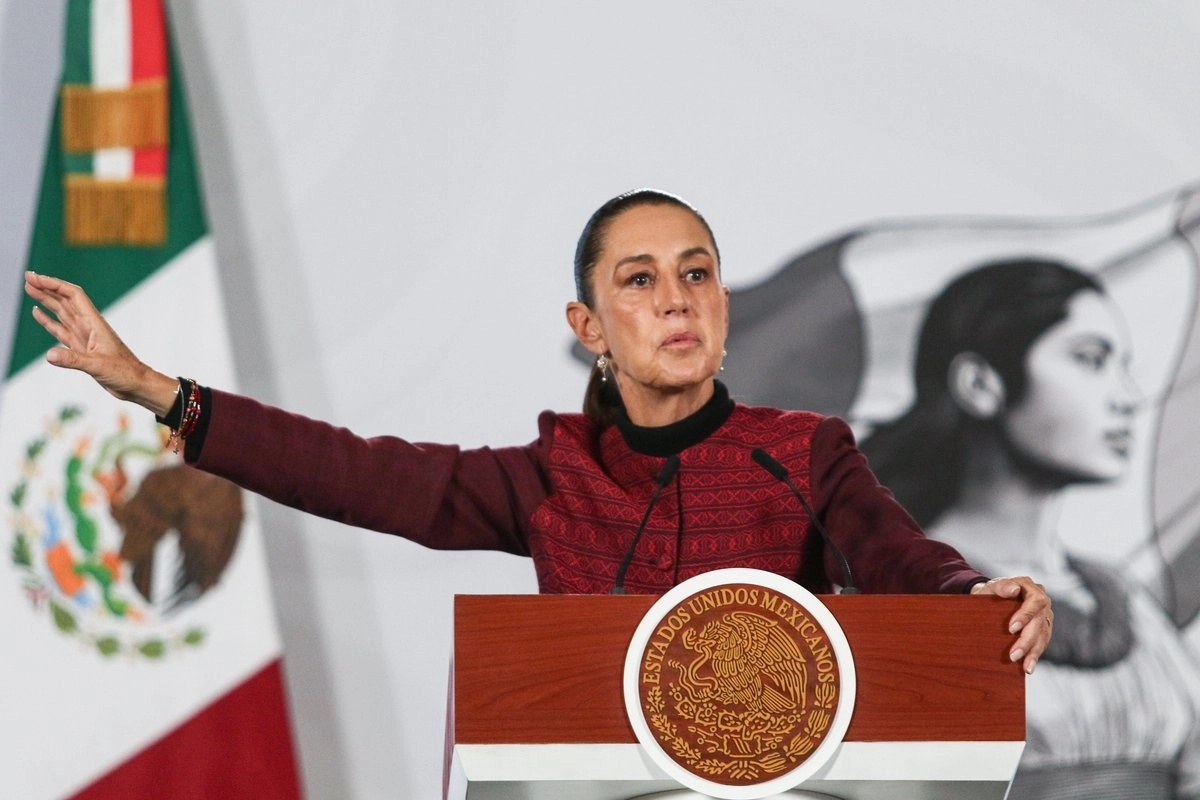
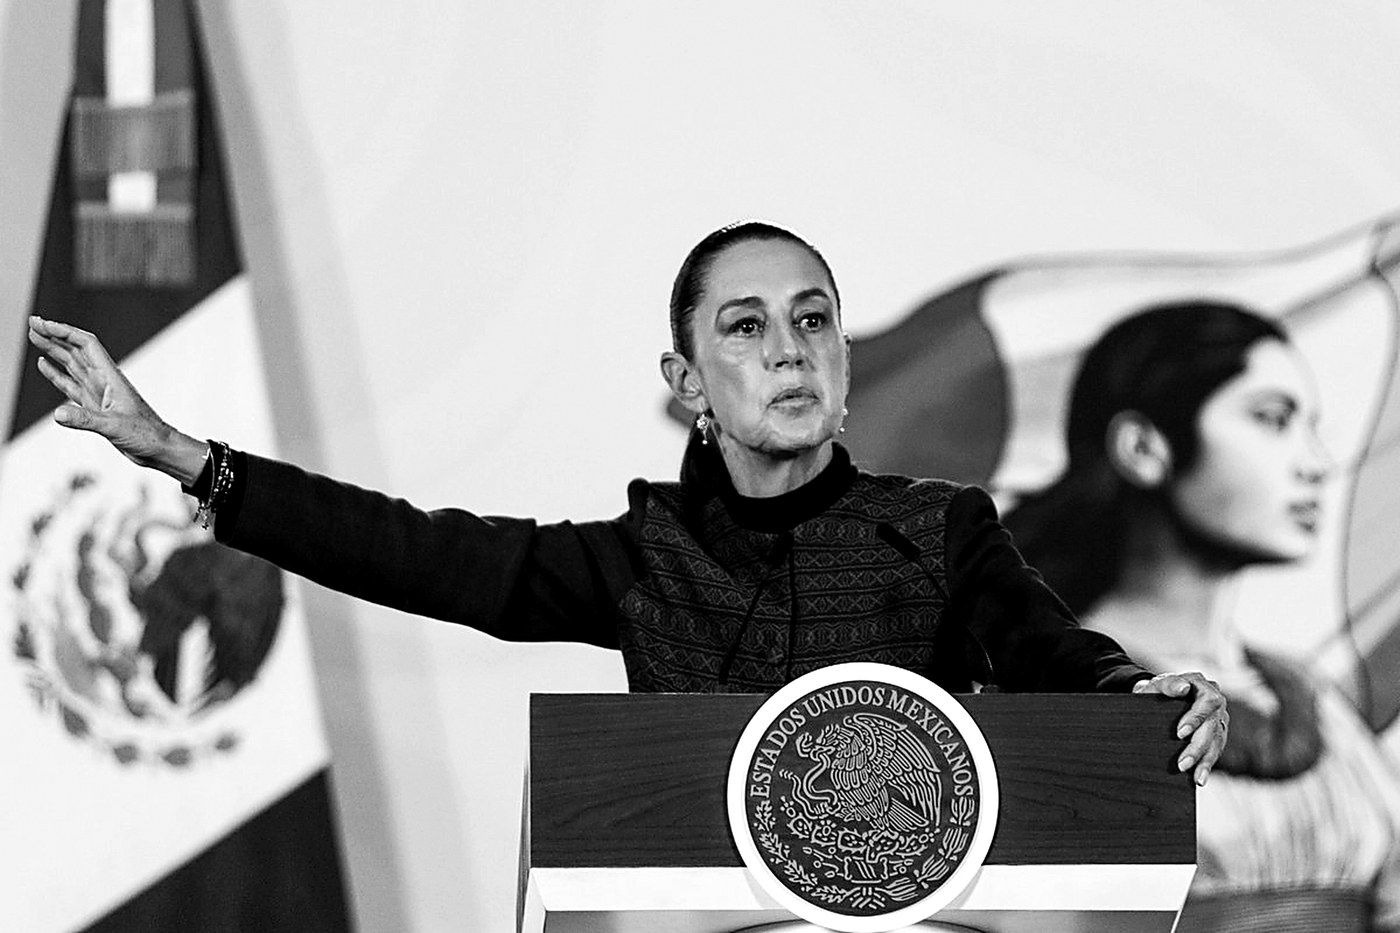
Economic rebound: apply bw filter to featured

diff --git a/translations/2026-07-06-economic-rebound-second-half/article.html b/translations/2026-07-06-economic-rebound-second-half/article.html
@@ -1,5 +1,5 @@
-<!-- wp:image {"id":17680,"sizeSlug":"large"} -->
-<figure class="wp-block-image size-large"><img src="https://mexicosolidarity.com/wp-content/uploads/2026/07/2026-07-06-economic-rebound-second-half-large.jpg" alt="President Claudia Sheinbaum gestures during her morning press conference at the National Palace" class="wp-image-17680"/><figcaption class="wp-element-caption">Claudia Sheinbaum Pardo during the morning press conference held at the National Palace, July 6, 2026. Photo: Cuartoscuro</figcaption></figure>
+<!-- wp:image {"id":17687,"sizeSlug":"large"} -->
+<figure class="wp-block-image size-large"><img src="https://mexicosolidarity.com/wp-content/uploads/2026/07/2026-07-06-economic-rebound-second-half-large-1.jpg" alt="President Claudia Sheinbaum gestures during her morning press conference at the National Palace" class="wp-image-17687"/><figcaption class="wp-element-caption">Claudia Sheinbaum Pardo during the morning press conference held at the National Palace, July 6, 2026. Photo: Cuartoscuro</figcaption></figure>
 <!-- /wp:image -->
 
 <!-- wp:paragraph -->
